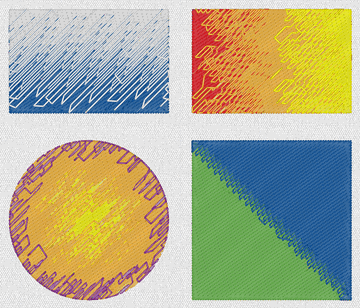
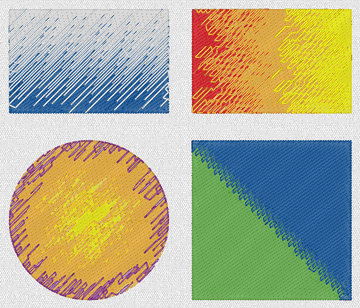
Blends and tartan: no visible connectors; runs chained where hidden; trial switches removed (#901)
The owner chose no visible connectors (2026-11-12): a blend or tartan colour's runs are
its separate pieces, so the compiler trims between them instead of sewing a straight
stitch of up to 4 mm across the other colours. join_within chains the runs end to end
wherever a hidden way links them. Kit gradients 58 -> 162 trims, 14.3 -> 20.4 min;
tartan unchanged. Docs say why a dithered blend trims a lot (#951 for a connected dither).

diff --git a/crates/openstitch-design/src/paths.rs b/crates/openstitch-design/src/paths.rs
@@ -858,13 +858,13 @@ pub fn join_within(
     // links taken shortest first while both ends are free and no loop forms: as few runs, and so
     // as few trims, as those links allow. A run may be sewn the other way round.
     let n = runs.len();
-    if n < 2 || std::env::var("OS901_NOCHAIN").is_ok() {
+    if n < 2 {
         return runs;
     }
     // Node 2i is run i's first point, 2i + 1 its last.
     let at = |node: usize| -> Vec2 {
         let r = &runs[node / 2];
-        if node % 2 == 0 {
+        if node.is_multiple_of(2) {
             r[0]
         } else {
             *r.last().expect("non-empty run")
@@ -880,7 +880,7 @@ pub fn join_within(
         near.sort_by(|x, y| x.0.total_cmp(&y.0).then(x.1.cmp(&y.1)));
         // Leaving run a / 2 at node a: it was sewn ending there.
         let mut from = runs[a / 2].clone();
-        if a % 2 == 0 {
+        if a.is_multiple_of(2) {
             from.reverse();
         }
         for &(_, b) in near.iter().take(CHAIN_TRIES) {
@@ -927,7 +927,11 @@ pub fn join_within(
         if entered[2 * i] || entered[2 * i + 1] {
             return None;
         }
-        Some(if next[2 * i].is_some() { 2 * i + 1 } else { 2 * i })
+        Some(if next[2 * i].is_some() {
+            2 * i + 1
+        } else {
+            2 * i
+        })
     };
     // Chains in the runs' own order of their first runs, so the first run stays first.
     for i in 0..n {
@@ -939,7 +943,7 @@ pub fn join_within(
             let r = node / 2;
             sewn[r] = true;
             let mut run = runs[r].clone();
-            if node % 2 == 1 {
+            if !node.is_multiple_of(2) {
                 run.reverse();
             }
             if chain.is_empty() {

diff --git a/crates/openstitch-design/src/compile.rs b/crates/openstitch-design/src/compile.rs
@@ -1237,9 +1237,7 @@ fn elements(
                     // are a blend or tartan colour's (#901): its join splits them only where no
                     // hidden way links them, and a straight stitch across the gap (up to the
                     // connect distance, 4 mm) would show over the other colours.
-                    pieces: (stroked
-                        || ((region.gradient.is_some() || region.tartan.is_some())
-                            && std::env::var("OS901_CONNECT").is_err()))
+                    pieces: (stroked || region.gradient.is_some() || region.tartan.is_some())
                         && k + 1 == n,
                     // The move into a letter from the one before (#465).
                     across: (text && k == 0).then_some(LETTER_ACROSS),

diff --git a/docs/FEATURE_MATRIX.md b/docs/FEATURE_MATRIX.md
@@ -293,7 +293,7 @@ PE-DESIGN reference, sew-out) is generated from the compatibility report into
 | Beyond PE-DESIGN | Read embroidery font folders in Ink/Stitch's published format (font.json + per-glyph SVG with stitch parameters, kerning) from a user font folder; no fonts bundled (#529) | Implemented (engine, editor Text ▸ Ink/Stitch Fonts…) | `fonts.importInkStitch {path}` (the design keeps its copy), `fonts.scanFolder {path}` (Rescan; a removed folder is no longer listed); glyph layers `GlyphLayer-X`, `baseline`/`caps` guides, advances, kerning pairs (applied in layout), size range from min/max scale, letter case; satin columns as closed outlines sewn by satin, fills, running lines along the centre-line router; licence file shown, unread `inkstitch:` parameters and skipped ligature layers reported; Text ▸ Ink/Stitch Fonts… keeps the folder in the preferences; FILE_FORMATS.md "Ink/Stitch font folders"; tests `an_ink_stitch_font_folder_loads_sews_and_survives_its_removal` (a font written by the test), `mutated_fonts_never_panic`, `hostile_input_is_refused_not_panicked`; from Ink/Stitch's documentation and published sample folders only, no GPL code | Per-object Ink/Stitch parameters (angle, spacing, underlay) are not mapped; satin rungs are not kept; right-to-left variants and multicolour fonts not read; owner sew-out of a downloaded OFL font pending |
 | Beyond PE-DESIGN | Small Text: single-line fonts sewn as one running (or bean) line along each letter's centre for 3–6 mm labels (#530) | Implemented (engine, editor Font list "Small Text" group); compared with PE-DESIGN's recorded Small Text numbers (2026-11-07) | `text.add {font: "openstitch-line"}` gives a running line at 1.5 mm pitch and no region (`object.setLine` `runTimes` 3 for bean stitch, `triple`, or `zigzag` for a narrow satin); each letter's strokes are routed so the needle travels only along strokes already sewn (`letter_lines::route_strokes`), a letter's separate pieces (i and j dots) are trimmed apart, letters up to 2 mm apart are sewn across and farther ones trimmed; curves sew with shorter stitches (within 0.2 mm of the line); tests `small_text_sews_along_the_centre_lines` ("abc ijt 0123 Hello" at 3, 4, 6 mm), `an_h_is_one_run_with_travel_on_its_strokes`, `an_i_dot_is_its_own_run`, `resampling_keeps_the_pitch_and_the_corners`; compat `text-small-running-3mm` and `text-small-satin-5mm` (internal-regression: expected values from PE-DESIGN 11.50's round-8 Small Text capture, Utah SR 3 mm and Utah Bold S 5 mm, whose files are Brother's and stay out of the repository) | Deliberate differences: PE-DESIGN's SR fonts trim between letters (about 8 in Hello 0123 at 3 mm) where OpenStitch Line joins them by running stitch up to 1.2 × the size, and PE-DESIGN refuses a size outside a font's range where OpenStitch warns (#527); widths and stitch counts differ with the font (PE-DESIGN's own Small Text fonts are Brother's and are not copied) |
 | Beyond PE-DESIGN | Raised satin: padding lanes sewn under the satin for a 3D look without foam (first step of B7) (#531) | Implemented (beyond PE-DESIGN) | [research/competitive-features.md](research/competitive-features.md) Updates, 2026-11-05 full survey (openhoop (GPL-3.0); concepts only); Done for Manual Punch columns and zigzag lines (batch:satin-2a): `raised {laneSpacing, inset, stitchLength}` or `true`, lanes about one per 1.5 mm (an even number) 0.5 mm in, ending where the satin starts; a `hints` entry under 3 mm; inspector toggle; test `raised_satin_pads_under_the_column`; satin regions (fixed direction, Auto) and skeleton satin since 2026-11-08 (#685: `fixed_satin_takes_the_satin_looks`, `skeleton_and_auto_satin_take_raised_padding`), satin text since 2026-11-07 (#686; engine `satin_lettering_takes_the_shaping_and_looks_through_the_command`); no sew-out yet | A sew-out |
-| Beyond PE-DESIGN | Colour blends and gradient fills (#532): `shape.gradient` turns a filled shape into one fill object per colour (2-8 threads, stops 0-1, linear along an angle or from/to, or radial), grouped and next to each other in the sewing order, without under sewing; `shape.blend` is the two-colour form with `mix` handles (where the first colour stops being solid and the second becomes solid). Every colour sews its share of one shared set of tatami rows, each stitch owned by exactly one colour, so together they are one even layer; dithers rows (whole rows, complementary row spacing), ordered (4 x 4 Bayer), noise (seeded) and bands (hard edges); curves linear, ease in, ease out, S-curve; a colour whose rows would be more than 5 mm apart gives its share to its neighbour; `object.setRegion` `gradientDither` / `gradientCurve` on the group, `gradient: false` back to a plain fill; inspector Gradient dither (+) and Gradient curve (+); PES 0110 refuses it (version 6 writes the stitches); each colour's travel stays hidden on its own stitches or within 2 mm, its pieces sewn nearest first with the nearest that can be reached hidden preferred, and trims otherwise, with no travel to or from its start and end points (#891, #901); kit swatch `examples/sew/fills/gradients.pes` | Implemented (beyond PE-DESIGN) | [research/competitive-features.md](research/competitive-features.md) Updates, 2026-11-05 full survey (openhoop (GPL-3.0), filum (GPL-3.0); concepts only) | design `stitch_type_tests::gradient_colours_share_one_set_of_rows_each_stitch_sewn_once`, `a_two_colour_blend_has_complementary_rows_and_bands_have_a_hard_edge`, `blend_travel_never_runs_far_across_the_rows`, engine `stitch_types::gradient_and_blend_go_through_the_commands`, app `coverage_editor::gradient_controls_reach_the_engine` |
+| Beyond PE-DESIGN | Colour blends and gradient fills (#532): `shape.gradient` turns a filled shape into one fill object per colour (2-8 threads, stops 0-1, linear along an angle or from/to, or radial), grouped and next to each other in the sewing order, without under sewing; `shape.blend` is the two-colour form with `mix` handles (where the first colour stops being solid and the second becomes solid). Every colour sews its share of one shared set of tatami rows, each stitch owned by exactly one colour, so together they are one even layer; dithers rows (whole rows, complementary row spacing), ordered (4 x 4 Bayer), noise (seeded) and bands (hard edges); curves linear, ease in, ease out, S-curve; a colour whose rows would be more than 5 mm apart gives its share to its neighbour; `object.setRegion` `gradientDither` / `gradientCurve` on the group, `gradient: false` back to a plain fill; inspector Gradient dither (+) and Gradient curve (+); PES 0110 refuses it (version 6 writes the stitches); each colour's travel stays hidden on its own stitches or within 2 mm, its pieces sewn nearest first with the nearest that can be reached hidden preferred, and trims otherwise, with no travel to or from its start and end points (#891, #901); its runs are chained end to end wherever such a hidden way links them, and no straight connector is sewn across a gap where more than 2 mm of it would show (the owner's choice, 2026-11-12: no visible connectors), so a dithered blend, whose colours break into many small pieces, trims a lot (the kit's gradients swatch about 150 times; bands far fewer); kit swatch `examples/sew/fills/gradients.pes` | Implemented (beyond PE-DESIGN) | [research/competitive-features.md](research/competitive-features.md) Updates, 2026-11-05 full survey (openhoop (GPL-3.0), filum (GPL-3.0); concepts only) | design `stitch_type_tests::gradient_colours_share_one_set_of_rows_each_stitch_sewn_once`, `a_two_colour_blend_has_complementary_rows_and_bands_have_a_hard_edge`, `blend_travel_never_runs_far_across_the_rows`, engine `stitch_types::gradient_and_blend_go_through_the_commands`, app `coverage_editor::gradient_controls_reach_the_engine` |
 | Beyond PE-DESIGN | Named density profiles and SVG gradients as blends (#532): `object.setRegion` `gradationShape` linear (PE-DESIGN's, unchanged), convex, concave, centre (dense in the middle), edges (open in the middle) or wave (two dense bands), scaled between the pattern's max and min; the rows keep PE-DESIGN's placement (first on the start edge, last on the far edge, equal steps of the integrated line count); inspector Gradation shape; PES 0110 refuses a shape other than linear. `import.svg` `gradients: "blend"` turns a closed shape's linear or radial gradient into a gradient fill along the gradient's own axis, one fill per stop (up to 8, picked evenly), grouped, the stroke on the last; clipped shapes keep one colour | Implemented (beyond PE-DESIGN) | [research/competitive-features.md](research/competitive-features.md) Updates, 2026-11-05 full survey (openhoop (GPL-3.0), filum (GPL-3.0); concepts only) | design `stitch_type_tests::named_gradation_shapes_space_the_rows_by_their_profile`, engine `stitch_types::gradation_shapes_go_through_the_command`, `svg_import::gradients_import_as_blends`, app `coverage_editor::gradation_shape_choices_reach_the_engine` |
 | Beyond PE-DESIGN | Gradient tool (#532), Shapes ▸ Edit Outline ▸ Gradient: drag (or click twice, or the arrow keys and Space) across a selected gradient fill from where its first colour should be to where its last should be; every object of the gradient follows in one undo step (`object.setRegion` `gradientFrom` / `gradientTo`, mm); Shift: 15° steps; stays active, Esc leaves; `ui.run` action `gradientTool`; icon generated with Higgsfield | Implemented (beyond PE-DESIGN) | [research/competitive-features.md](research/competitive-features.md) Updates, 2026-11-05 full survey (openhoop (GPL-3.0), filum (GPL-3.0); concepts only) | app `editor::tools::gradient::tests`, engine `stitch_types::gradient_start_and_end_move_with_the_command` |
 | Beyond PE-DESIGN | Maze fill (#533), region type `maze`: one closed path that never crosses itself, long straight corridors with square turns, its passes the spacing apart (default 2 mm, 1-20) and reaching to about half a spacing from the outline and the holes; the stippling walk (a seeded spanning tree of 2-spacing cells walked at half a cell, partial cells along the outline taken in by detours) with the tree biased to run straight on (`straightness`, default 70 %) and its own `mazeSeed` (default 533), sewn at the run pitch without rounding; one run per connected part, started at the point nearest the start point; Stippling's output unchanged; PES 0110 refuses it (version 6 writes the stitches); inspector Spacing, Run pitch, Straightness, Seed; kit swatch `examples/sew/fills/maze-fill.pes` | Implemented (beyond PE-DESIGN) | [research/beyond/meander-maze-and-randomisation.md](research/beyond/meander-maze-and-randomisation.md) §2; [research/competitive-features.md](research/competitive-features.md) Updates, 2026-11-05 full survey (filum (GPL-3.0); concepts only) | design `stitch_type_tests::maze_fill_*`, engine `stitch_types::maze_fill_goes_through_the_command`, app `coverage_editor::maze_fill_controls_reach_the_engine` |

diff --git a/docs/COMPATIBILITY_AUDIT.md b/docs/COMPATIBILITY_AUDIT.md
@@ -3508,6 +3508,28 @@ Still open on #446:
 - A's feet and V's top ends fan.
 - N's corner block.
 
+### No visible connectors in blends and tartan; #914's figures corrected, 2026-11-12 (#901)
+
+#914 measured the longest exposed travel only on stretches of two or more stitches. The design
+compiler also sews a single straight stitch across a gap of up to 4 mm between one object's
+runs (its connect distance), and in a blend those stitches crossed the other colours: with
+single stitches counted, main shows 3.2 mm across the rows on the radial noise blend of
+`blend_travel_never_runs_far_across_the_rows` (now counting them; it fails on main and passes
+here); #914's 1.9 mm for the kit swatch left those stitches out. The owner chose no visible connectors:
+a blend or tartan colour's runs are its separate pieces, so the compiler trims between them
+instead of sewing that stitch, and `join_within` first chains the runs end to end wherever a
+hidden way (at most 2 mm showing) links one run's end to another's (shortest links first, each
+run entered and left once, no loops).
+
+| kit swatch | trims | stitches | sewing |
+|---|---|---|---|
+| `fills/gradients` (three small dithered blends) | 58 → 162 | 9,054 → 9,685 | 14.3 → 20.4 min |
+| `fills/tartan` | 6 (unchanged) | 3,514 | 4.7 min |
+
+A dithered blend breaks each colour into many small pieces, hence the trims; `rows` and `bands`
+trim far less. Fewer trims with the same look needs a dither that keeps a colour's pieces
+connected (#951, Future).
+
 ### Blend travel hidden before trimming, and tartan too, 2026-11-12 (#901)
 
 Beyond PE-DESIGN, so there is no reference. #891 kept each blend colour's travel to 2 mm, but at

diff --git a/skills/openstitch-embroidery/SKILL.md b/skills/openstitch-embroidery/SKILL.md
@@ -46,8 +46,10 @@ well), `reference/answers.md` (what OpenStitch can do, where things are, file fo
   Move where it starts and ends with `gradientFrom` / `gradientTo` ([x, y] mm) on all the ids
   (the editor's Gradient tool does this by dragging).
   PES 0110 refuses them; save PES version 6. Each colour trims where its travel would show
-  across the others: expect some trims per blend (a dithered blend more than bands); tell the
-  user when their machine has no thread cutter.
+  across the others (no connector is sewn where more than 2 mm of it would show): a dithered
+  blend breaks each colour into many small pieces and trims a lot (the kit's three small blends
+  about 150 times), bands far fewer. Suggest `gradientDither: "rows"` or `"bands"`, or fewer colours, when the
+  user wants fewer trims, and tell them when their machine has no thread cutter.
 - Gradation shapes (beyond PE-DESIGN): with `gradationPattern` on, `object.setRegion`
   `gradationShape` `convex` | `concave` | `centre` | `edges` | `wave` (`linear` is PE-DESIGN's).
   PES 0110 refuses the others. `import.svg` with `gradients: "blend"` brings SVG gradients in as

diff --git a/examples/sew/README.md b/examples/sew/README.md
@@ -431,7 +431,7 @@ Threads, in sewing order: 405 Blue, 800 Red, 509 Leaf Green, 208 Orange, 620 Mag
 
 #### Colour blends and gradient fills (beyond PE-DESIGN)
 
-[`fills/gradients.pes`](fills/gradients.pes) · 100 × 100 mm hoop · 86 × 73 mm · 9,054 stitches · 58 trims · about 14.3 min
+[`fills/gradients.pes`](fills/gradients.pes) · 100 × 100 mm hoop · 86 × 73 mm · 9,685 stitches · 162 trims · about 20.4 min
 
 Top left: a blue-to-white blend, bottom to top (rows dither). Top right: red, orange and yellow, left to right (ordered dither). Bottom left: a radial yellow, orange and magenta gradient (noise dither). Bottom right: green into blue at 45° with hard bands.
 
